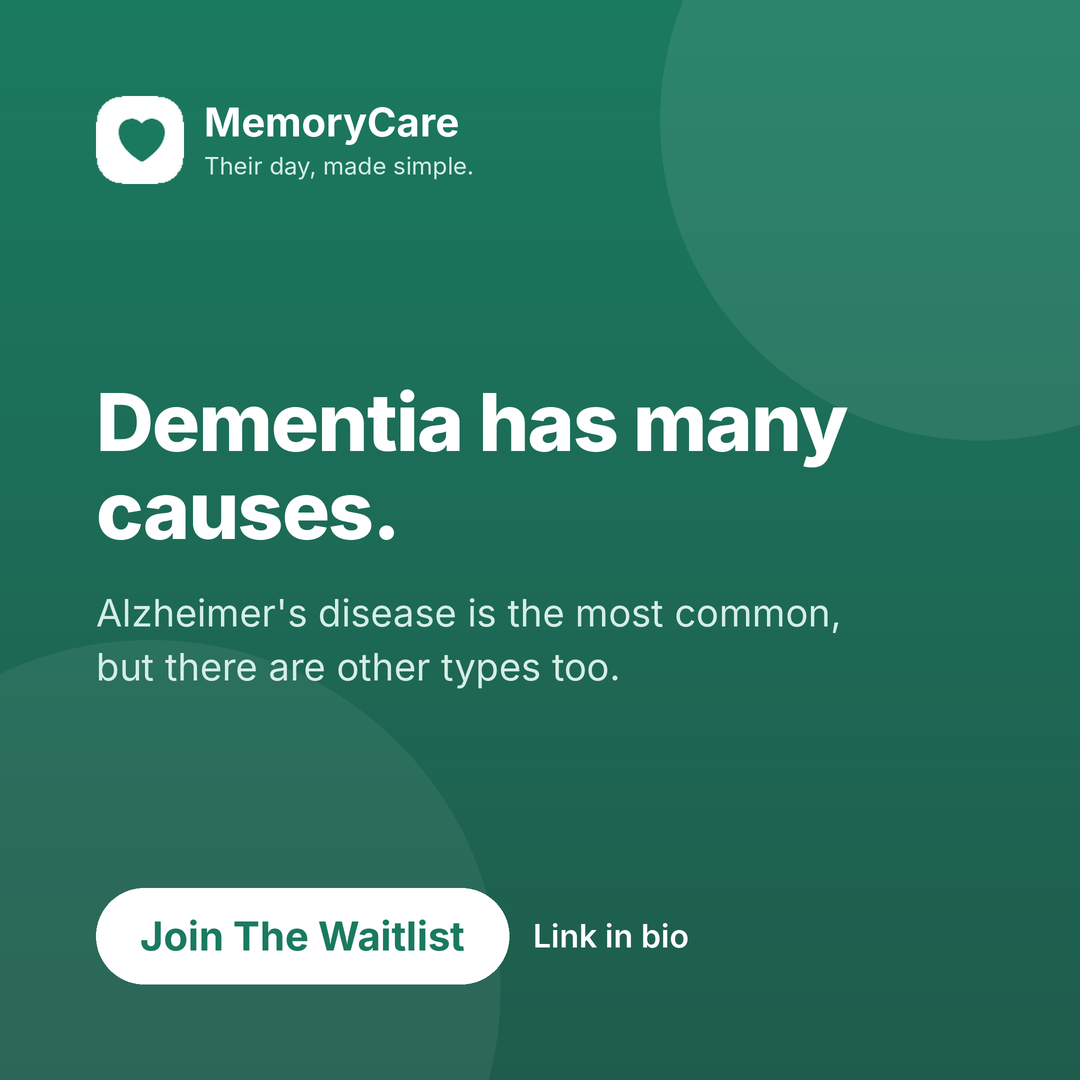
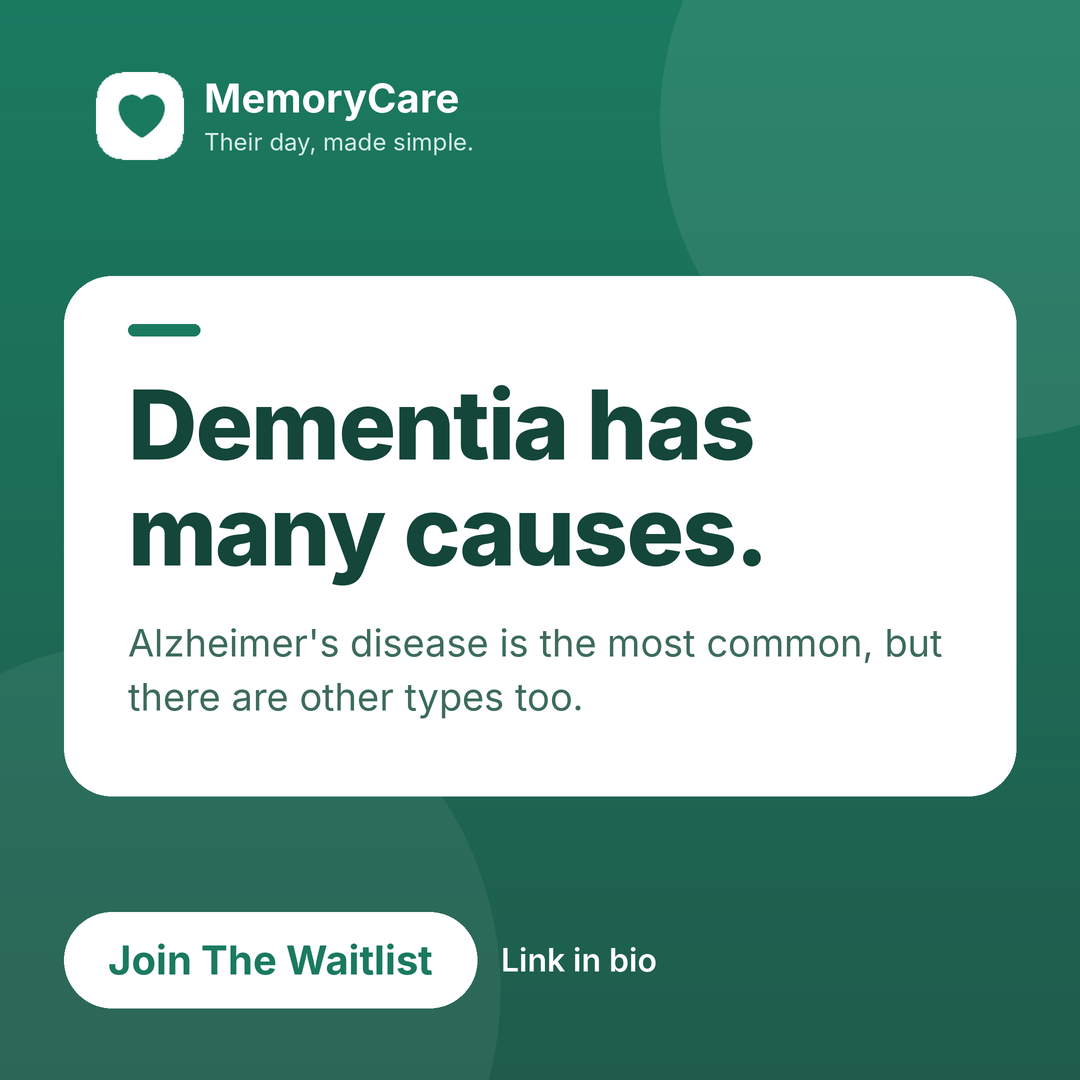
Vary social post designs: themes and layouts for posts 03-14
Claude-Session: https://claude.ai/code/session_01U8SV8CX31vhrEXAyYzjAej

diff --git a/assets/social/render_post.py b/assets/social/render_post.py
@@ -1,11 +1,9 @@
-"""Render a 1080x1080 MemoryCare social post PNG.
+"""Render a 1080x1080 MemoryCare social post PNG with a theme and layout.
 
 Usage:
-  python3 assets/social/render_post.py --out assets/social/memorycare-YYYY-MM-DD.png \
-      --headline "One step at a time." \
-      --sub "Offer one simple step, stay calm, and give time to respond." \
-      --tagline "Their day, made simple." \
-      --button "Join The Waitlist" --note "Link in bio"
+  python3 render_post.py --out OUT.png --headline "..." --sub "..." \
+      [--theme forest|cream|deep|mint|sand] [--layout left|center|card|bold|band] \
+      [--tagline "Their day, made simple."] [--button "Join The Waitlist"] [--note "Link in bio"]
 
 Needs Pillow. Uses Inter if installed, otherwise DejaVu Sans.
 """
@@ -17,7 +15,29 @@ HERE = os.path.dirname(os.path.abspath(__file__))
 LOGO = os.path.join(HERE, "logo.png")
 INTER = "/usr/share/fonts/opentype/inter/"
 DEJAVU = "/usr/share/fonts/truetype/dejavu/"
-K = 2  # supersample factor
+K = 2
+S = 1080
+PAD = 96
+
+
+def hexrgb(h):
+    h = h.lstrip("#")
+    return tuple(int(h[i:i + 2], 16) for i in (0, 2, 4))
+
+
+# bg gradient top/bottom, circle colour+alpha, headline, sub, tagline/brand name, button bg, button text, note, accent
+THEMES = {
+    "forest": dict(top="#1a7a60", bot="#1f5c4c", circ=(255, 255, 255), ca=(0.08, 0.06), h="#ffffff", sub="#d5eee5",
+                   name="#ffffff", tag="#d5eee5", btn="#ffffff", btxt="#1a7a60", note="#ffffff", accent="#d5eee5", card="#ffffff"),
+    "cream": dict(top="#f6fbf8", bot="#e1f2ea", circ=(26, 122, 96), ca=(0.07, 0.05), h="#14463a", sub="#3d6b5e",
+                  name="#14463a", tag="#3d6b5e", btn="#1a7a60", btxt="#ffffff", note="#14463a", accent="#1a7a60", card="#ffffff"),
+    "deep": dict(top="#14433b", bot="#0b2824", circ=(127, 216, 184), ca=(0.10, 0.07), h="#ffffff", sub="#b5e3d1",
+                 name="#ffffff", tag="#7fd8b8", btn="#7fd8b8", btxt="#0b2824", note="#ffffff", accent="#7fd8b8", card="#ffffff"),
+    "mint": dict(top="#cdeade", bot="#b4dfcd", circ=(255, 255, 255), ca=(0.35, 0.25), h="#0f3f33", sub="#245748",
+                 name="#0f3f33", tag="#245748", btn="#0f3f33", btxt="#ffffff", note="#0f3f33", accent="#1a7a60", card="#ffffff"),
+    "sand": dict(top="#fcf7ee", bot="#f3e9d6", circ=(232, 160, 90), ca=(0.14, 0.10), h="#1f5c4c", sub="#4b6b5f",
+                 name="#1f5c4c", tag="#6a7f74", btn="#1a7a60", btxt="#ffffff", note="#1f5c4c", accent="#e8a05a", card="#ffffff"),
+}
 
 
 def load_font(inter_name, dejavu_name, size):
@@ -27,65 +47,68 @@ def load_font(inter_name, dejavu_name, size):
     return ImageFont.load_default()
 
 
-def hexrgb(h):
-    h = h.lstrip("#")
-    return tuple(int(h[i:i + 2], 16) for i in (0, 2, 4))
-
-
 def main():
     ap = argparse.ArgumentParser()
     ap.add_argument("--out", required=True)
     ap.add_argument("--headline", required=True)
     ap.add_argument("--sub", required=True)
+    ap.add_argument("--theme", default="forest", choices=THEMES)
+    ap.add_argument("--layout", default="left", choices=["left", "center", "card", "bold", "band"])
     ap.add_argument("--tagline", default="Their day, made simple.")
     ap.add_argument("--button", default="Join The Waitlist")
     ap.add_argument("--note", default="Link in bio")
     a = ap.parse_args()
+    T = {k: (hexrgb(v) if isinstance(v, str) else v) for k, v in THEMES[a.theme].items()}
+    W = S * K
 
-    W = 1080 * K
-    PAD = 96
-    WHITE, TRACK, BRAND = (255, 255, 255), hexrgb("#d5eee5"), hexrgb("#1a7a60")
-
+    # background
     img = Image.new("RGB", (W, W))
-    top, bot = hexrgb("#1a7a60"), hexrgb("#1f5c4c")
     px = ImageDraw.Draw(img)
     for y in range(W):
         t = y / (W - 1)
-        px.line([(0, y), (W, y)], fill=tuple(round(top[i] + (bot[i] - top[i]) * t) for i in range(3)))
+        px.line([(0, y), (W, y)], fill=tuple(round(T["top"][i] + (T["bot"][i] - T["top"][i]) * t) for i in range(3)))
     ov = Image.new("RGBA", (W, W), (0, 0, 0, 0))
     od = ImageDraw.Draw(ov)
-    od.ellipse([660 * K, -200 * K, 1300 * K, 440 * K], fill=(255, 255, 255, round(255 * 0.08)))
-    od.ellipse([-200 * K, 640 * K, 500 * K, 1340 * K], fill=(255, 255, 255, round(255 * 0.06)))
+    c = T["circ"]
+    if a.layout in ("left", "card", "band"):
+        od.ellipse([660 * K, -200 * K, 1300 * K, 440 * K], fill=c + (round(255 * T["ca"][0]),))
+        od.ellipse([-200 * K, 640 * K, 500 * K, 1340 * K], fill=c + (round(255 * T["ca"][1]),))
+    elif a.layout == "center":
+        od.ellipse([140 * K, 300 * K, 940 * K, 1100 * K], fill=c + (round(255 * T["ca"][0]),))
+        od.ellipse([-260 * K, -260 * K, 300 * K, 300 * K], fill=c + (round(255 * T["ca"][1]),))
+        od.ellipse([800 * K, 820 * K, 1300 * K, 1320 * K], fill=c + (round(255 * T["ca"][1]),))
+    else:  # bold
+        od.ellipse([520 * K, -420 * K, 1400 * K, 460 * K], fill=c + (round(255 * T["ca"][0]),))
     img = Image.alpha_composite(img.convert("RGBA"), ov)
     d = ImageDraw.Draw(img)
 
     def adv(f, s, i):
-        c = s[i]
+        ch = s[i]
         if i + 1 < len(s):
-            return f.getlength(c + s[i + 1]) - f.getlength(s[i + 1])
-        return f.getlength(c)
+            return f.getlength(ch + s[i + 1]) - f.getlength(s[i + 1])
+        return f.getlength(ch)
 
-    def text_w(s, f, ls=0.0):
-        if ls == 0:
-            return f.getlength(s)
-        return sum(adv(f, s, i) + ls for i in range(len(s)))
+    def tw(s, f, ls=0.0):
+        return f.getlength(s) if ls == 0 else sum(adv(f, s, i) + ls for i in range(len(s)))
 
-    def draw_line(x, top_y, line_h, s, f, fill, ls=0.0):
+    def line(x, top_y, lh, s, f, fill, ls=0.0, center=False):
         asc, desc = f.getmetrics()
-        base = top_y + (line_h - (asc + desc)) / 2 + asc
+        base = top_y + (lh - (asc + desc)) / 2 + asc
+        if center:
+            x = x - tw(s, f, ls) / 2
         if ls == 0:
             d.text((x, base), s, font=f, fill=fill, anchor="ls")
             return
         cx = x
-        for i, c in enumerate(s):
-            d.text((cx, base), c, font=f, fill=fill, anchor="ls")
+        for i, ch in enumerate(s):
+            d.text((cx, base), ch, font=f, fill=fill, anchor="ls")
             cx += adv(f, s, i) + ls
 
     def wrap(s, f, max_w, ls=0.0):
         lines, cur = [], ""
         for w in s.split(" "):
             t = (cur + " " + w).strip()
-            if text_w(t, f, ls) <= max_w or not cur:
+            if tw(t, f, ls) <= max_w or not cur:
                 cur = t
             else:
                 lines.append(cur)
@@ -93,51 +116,144 @@ def main():
         lines.append(cur)
         return lines
 
-    # header: logo + name + tagline
-    logo = Image.open(LOGO).convert("RGBA").resize((88 * K, 88 * K), Image.LANCZOS)
-    mask = Image.new("L", logo.size, 0)
-    ImageDraw.Draw(mask).rounded_rectangle([0, 0, 88 * K - 1, 88 * K - 1], radius=22 * K, fill=255)
-    img.paste(logo, (PAD * K, PAD * K), Image.composite(logo.split()[3], Image.new("L", logo.size, 0), mask))
-    d = ImageDraw.Draw(img)
-    tx = (PAD + 88 + 20) * K
-    ty = PAD + (88 - 84) / 2
-    draw_line(tx, ty * K, 48 * K, "MemoryCare", load_font("Inter-Bold.otf", "DejaVuSans-Bold.ttf", 40), WHITE)
-    draw_line(tx, (ty + 52) * K, 32 * K, a.tagline, load_font("Inter-Regular.otf", "DejaVuSans.ttf", 24), TRACK)
+    logo = Image.open(LOGO).convert("RGBA")
 
-    # headline + supporting line, fitted to the available height
-    avail = 1080 - 2 * PAD - 88 - 96
-    size = 80
-    while True:
-        f_h1 = load_font("Inter-ExtraBold.otf", "DejaVuSans-Bold.ttf", size)
-        ls = -0.02 * size * K
-        h1 = wrap(a.headline, f_h1, (1080 - 2 * PAD) * K, ls)
-        lh = round(size * 1.1)
-        f_p = load_font("Inter-Regular.otf", "DejaVuSans.ttf", 38)
-        p = wrap(a.sub, f_p, 800 * K)
-        mid_h = len(h1) * lh + 32 + len(p) * 54
-        if mid_h <= avail - 40 or size <= 48:
-            break
-        size -= 4
-    y = PAD + 88 + (avail - mid_h) / 2
-    for ln in h1:
-        draw_line(PAD * K, y * K, lh * K, ln, f_h1, WHITE, ls)
-        y += lh
-    y += 32
-    for ln in p:
-        draw_line(PAD * K, y * K, 54 * K, ln, f_p, TRACK)
-        y += 54
+    def paste_logo(x, y, size):
+        lg = logo.resize((size * K, size * K), Image.LANCZOS)
+        m = Image.new("L", lg.size, 0)
+        ImageDraw.Draw(m).rounded_rectangle([0, 0, size * K - 1, size * K - 1], radius=round(size * 0.25) * K, fill=255)
+        img.paste(lg, (x * K, y * K), Image.composite(lg.split()[3], Image.new("L", lg.size, 0), m))
 
-    # bottom row: button + note
+    f_name = load_font("Inter-Bold.otf", "DejaVuSans-Bold.ttf", 40)
+    f_tag = load_font("Inter-Regular.otf", "DejaVuSans.ttf", 24)
+
+    def header_left(x, y, name_col=None, tag_col=None):
+        paste_logo(x, y, 88)
+        tx = x + 88 + 20
+        ty = y + (88 - 84) / 2
+        line(tx * K, ty * K, 48 * K, "MemoryCare", f_name, name_col or T["name"])
+        line(tx * K, (ty + 52) * K, 32 * K, a.tagline, f_tag, tag_col or T["tag"])
+
+    def fit(max_w, avail, start, ls_k=-0.02, sub_w=800, sub_size=38, sub_lh=54, gap=32, lh_k=1.1, minsize=48, weight="Inter-ExtraBold.otf"):
+        size = start
+        while True:
+            fh = load_font(weight, "DejaVuSans-Bold.ttf", size)
+            ls = ls_k * size * K
+            h1 = wrap(a.headline, fh, max_w * K, ls)
+            lh = round(size * lh_k)
+            fp = load_font("Inter-Regular.otf", "DejaVuSans.ttf", sub_size)
+            p = wrap(a.sub, fp, sub_w * K)
+            total = len(h1) * lh + gap + len(p) * sub_lh
+            if total <= avail or size <= minsize:
+                return fh, ls, h1, lh, fp, p, total
+            size -= 4
+
     f_b = load_font("Inter-Bold.otf", "DejaVuSans-Bold.ttf", 40)
-    bw = text_w(a.button, f_b) / K + 88
-    by = 1080 - PAD - 96
-    d.rounded_rectangle([PAD * K, by * K, (PAD + bw) * K, (by + 96) * K], radius=48 * K, fill=WHITE)
-    draw_line((PAD + 44) * K, by * K, 96 * K, a.button, f_b, BRAND)
-    if a.note:
-        draw_line((PAD + bw + 24) * K, (by + 28) * K, 40 * K, a.note,
-                  load_font("Inter-SemiBold.otf", "DejaVuSans-Bold.ttf", 32), WHITE)
+    f_n = load_font("Inter-SemiBold.otf", "DejaVuSans-Bold.ttf", 32)
+    bw = tw(a.button, f_b) / K + 88
 
-    img.convert("RGB").resize((1080, 1080), Image.LANCZOS).save(a.out, optimize=True)
+    def button(x, y, btn=None, btxt=None, note=None):
+        d.rounded_rectangle([x * K, y * K, (x + bw) * K, (y + 96) * K], radius=48 * K, fill=btn or T["btn"])
+        line((x + 44) * K, y * K, 96 * K, a.button, f_b, btxt or T["btxt"])
+        if a.note:
+            line((x + bw + 24) * K, (y + 28) * K, 40 * K, a.note, f_n, note or T["note"])
+
+    if a.layout == "left":
+        header_left(PAD, PAD)
+        avail = S - 2 * PAD - 88 - 96 - 40
+        fh, ls, h1, lh, fp, p, total = fit(S - 2 * PAD, avail, 80)
+        y = PAD + 88 + (S - 2 * PAD - 88 - 96 - total) / 2
+        for ln in h1:
+            line(PAD * K, y * K, lh * K, ln, fh, T["h"], ls)
+            y += lh
+        y += 32
+        for ln in p:
+            line(PAD * K, y * K, 54 * K, ln, fp, T["sub"])
+            y += 54
+        button(PAD, S - PAD - 96)
+
+    elif a.layout == "center":
+        # logo centred on top, centred text, centred button; note underneath
+        paste_logo(S // 2 - 52, PAD - 8, 104)
+        line(S / 2 * K, (PAD + 104) * K, 48 * K, "MemoryCare", f_name, T["name"], center=True)
+        line(S / 2 * K, (PAD + 104 + 48) * K, 32 * K, a.tagline, f_tag, T["tag"], center=True)
+        top = PAD + 104 + 100
+        avail = S - top - PAD - 96 - 40 - 60
+        fh, ls, h1, lh, fp, p, total = fit(S - 2 * PAD - 40, avail, 84, sub_w=780)
+        y = top + (avail - total) / 2 + 20
+        for ln in h1:
+            line(S / 2 * K, y * K, lh * K, ln, fh, T["h"], ls, center=True)
+            y += lh
+        y += 32
+        for ln in p:
+            line(S / 2 * K, y * K, 54 * K, ln, fp, T["sub"], center=True)
+            y += 54
+        by = S - PAD - 96 - 44
+        d.rounded_rectangle([(S - bw) / 2 * K, by * K, (S + bw) / 2 * K, (by + 96) * K], radius=48 * K, fill=T["btn"])
+        line(S / 2 * K, by * K, 96 * K, a.button, f_b, T["btxt"], center=True)
+        if a.note:
+            line(S / 2 * K, (by + 96 + 8) * K, 40 * K, a.note, f_n, T["note"], center=True)
+
+    elif a.layout == "card":
+        header_left(PAD, 72)
+        inner = 64 + 64
+        by = S - 72 - 96
+        zone_top, zone_bot = 72 + 88 + 36, by - 36
+        fh, ls, h1, lh, fp, p, total = fit(S - 2 * inner, zone_bot - zone_top - 2 * 72, 96, sub_w=S - 2 * inner, minsize=56)
+        ch = total + 2 * 72 + 24
+        card_top = zone_top + (zone_bot - zone_top - ch) / 2
+        card_bot = card_top + ch
+        d.rounded_rectangle([64 * K, card_top * K, (S - 64) * K, card_bot * K], radius=48 * K, fill=T["card"])
+        y = card_top + 72 + 24
+        d.rounded_rectangle([inner * K, (card_top + 48) * K, (inner + 72) * K, (card_top + 60) * K], radius=6 * K, fill=hexrgb("#1a7a60"))
+        for ln in h1:
+            line(inner * K, y * K, lh * K, ln, fh, hexrgb("#14463a"), ls)
+            y += lh
+        y += 32
+        for ln in p:
+            line(inner * K, y * K, 54 * K, ln, fp, hexrgb("#3d6b5e"))
+            y += 54
+        button(64, by)
+
+    elif a.layout == "bold":
+        # small header top-left, huge headline anchored low, thin accent rule, button bottom
+        header_left(PAD, PAD)
+        avail = 560
+        fh, ls, h1, lh, fp, p, total = fit(S - 2 * PAD, avail, 112, ls_k=-0.03, sub_w=820, sub_size=36, sub_lh=50, gap=36, lh_k=1.04, minsize=56)
+        by = S - PAD - 96
+        y_end = by - 56
+        y = y_end - total
+        for ln in h1:
+            line(PAD * K, y * K, lh * K, ln, fh, T["h"], ls)
+            y += lh
+        y += 36
+        d.rounded_rectangle([PAD * K, (y - 20) * K, (PAD + 96) * K, (y - 12) * K], radius=4 * K, fill=T["accent"])
+        y += 12
+        for ln in p:
+            line(PAD * K, y * K, 50 * K, ln, fp, T["sub"])
+            y += 50
+        button(PAD, by)
+
+    else:  # band
+        band_h = 232
+        d.rectangle([0, 0, W, band_h * K], fill=T["btn"] if a.theme != "forest" else hexrgb("#14463a"))
+        on_band_name = T["btxt"] if a.theme != "forest" else hexrgb("#ffffff")
+        on_band_tag = T["btxt"] if a.theme != "forest" else hexrgb("#d5eee5")
+        header_left(PAD, (band_h - 88) // 2, on_band_name, on_band_tag)
+        top = band_h
+        avail = S - top - PAD - 96 - 40 - 40
+        fh, ls, h1, lh, fp, p, total = fit(S - 2 * PAD, avail, 84)
+        y = top + 56 + (avail - total) / 2
+        for ln in h1:
+            line(PAD * K, y * K, lh * K, ln, fh, T["h"], ls)
+            y += lh
+        y += 32
+        for ln in p:
+            line(PAD * K, y * K, 54 * K, ln, fp, T["sub"])
+            y += 54
+        button(PAD, S - PAD - 96)
+
+    img.convert("RGB").resize((S, S), Image.LANCZOS).save(a.out, optimize=True)
     print("saved", a.out)
 
 
